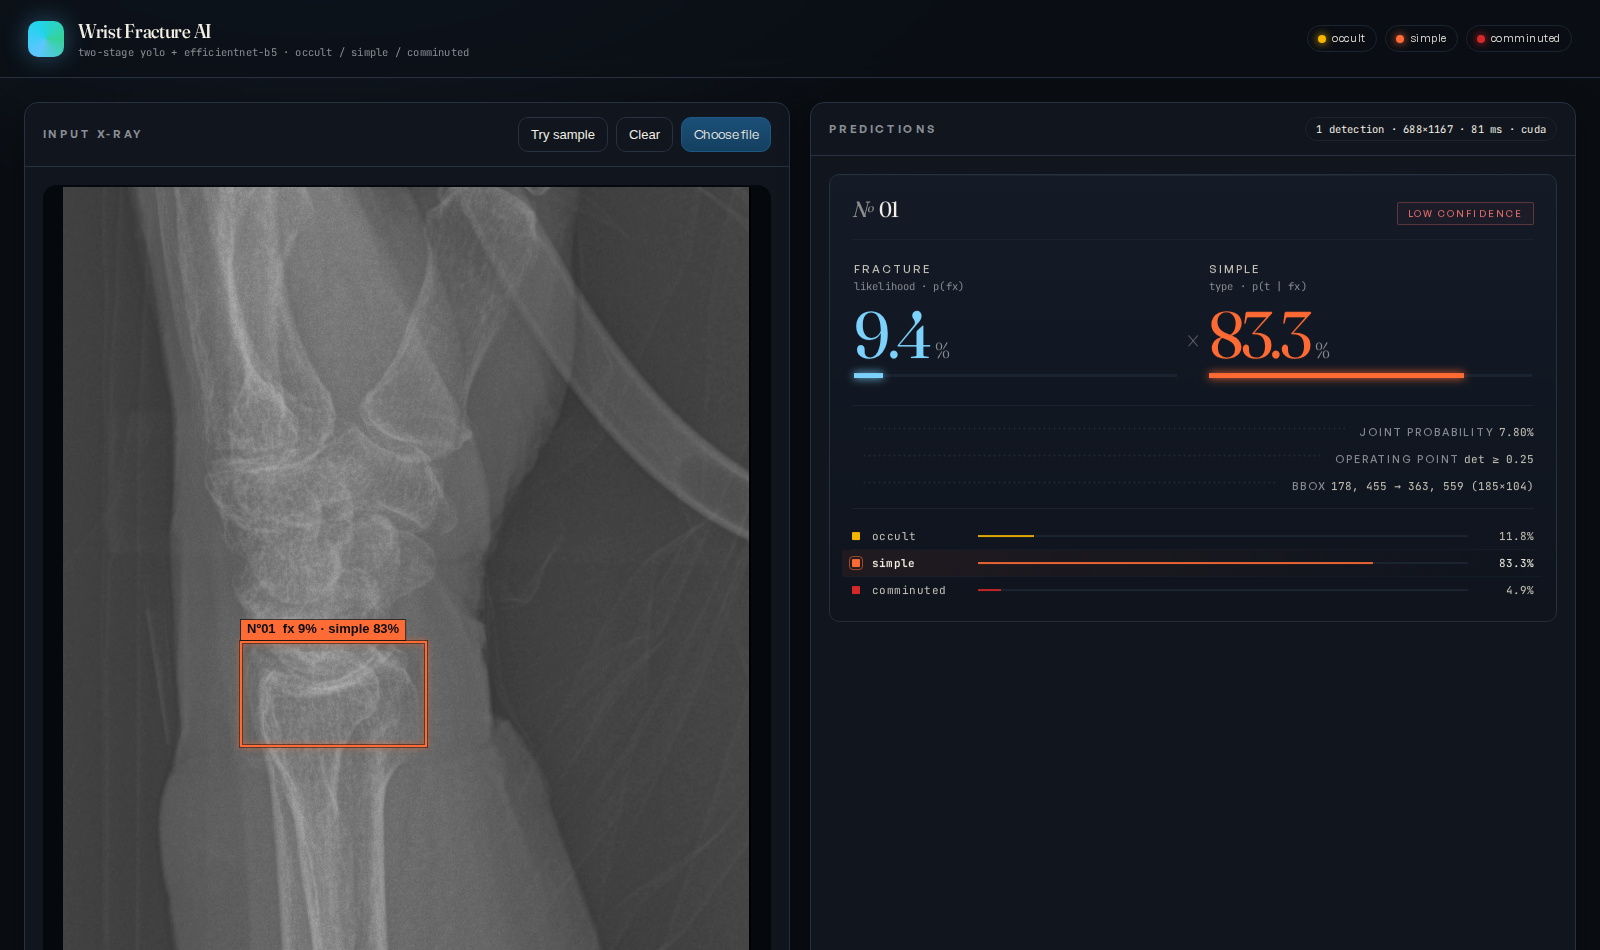
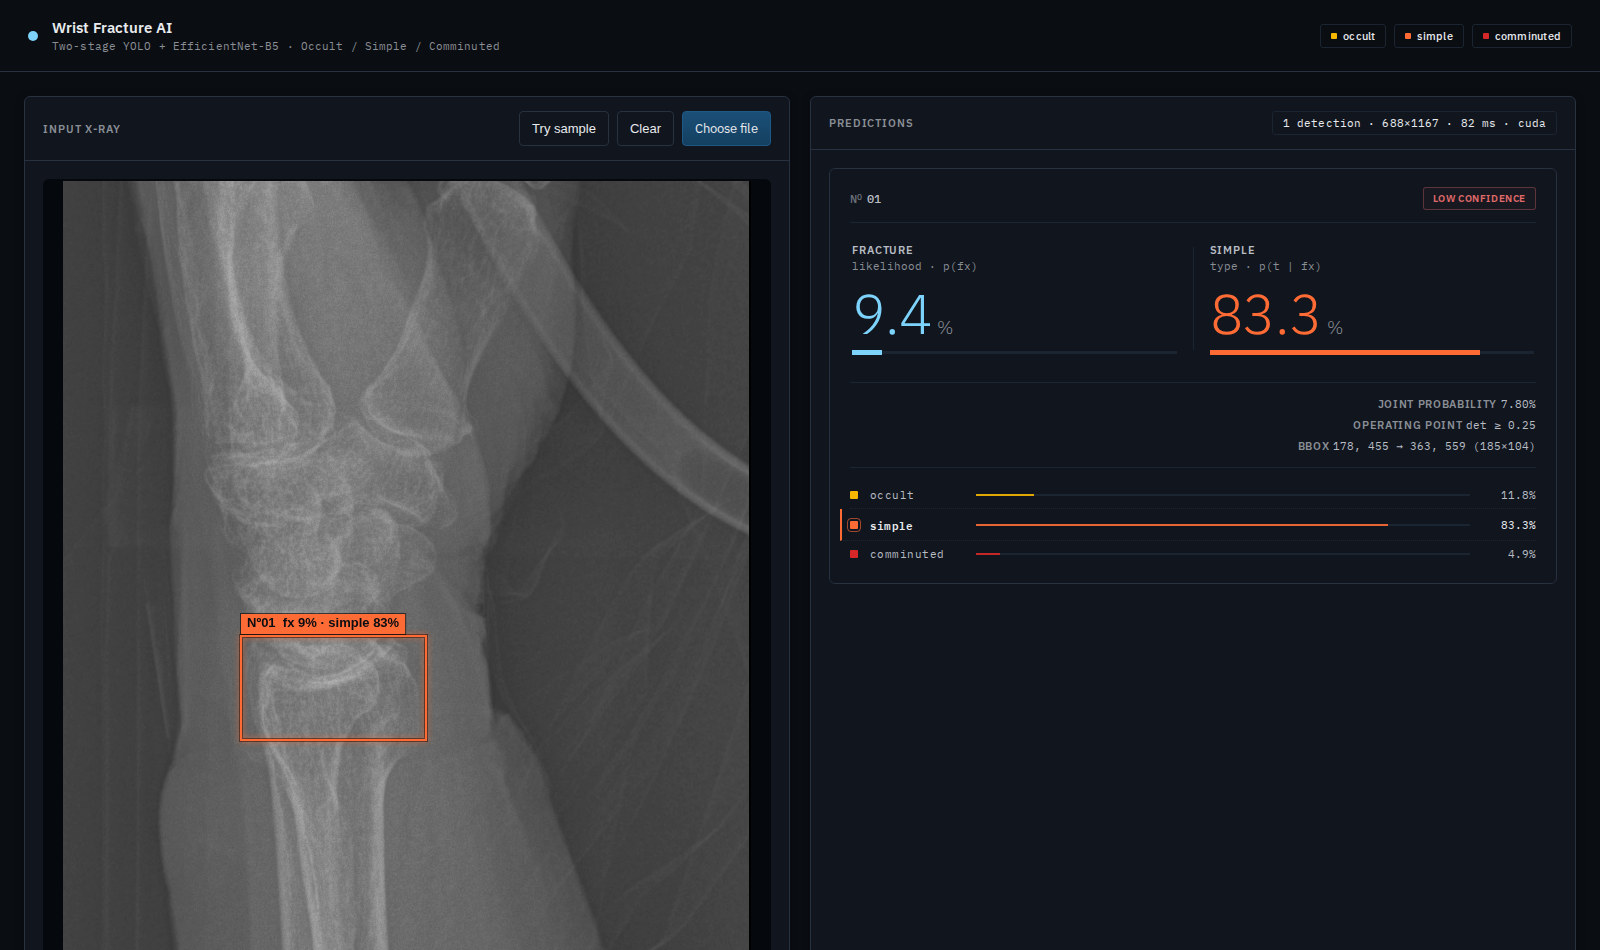
UI v4: apply medical reviewer residuals
- Remove dot-leader pattern from meta rows (print-typography holdover)
- Remove .badge-dot glow (box-shadow 0)
- Unify border-radius: .card, .no-det, .btn, .chip all -> 4-6px
- Drop backdrop-filter blur on topbar (consumer OS pattern)
- .pct weight 300 matches .num (uniform instrument-grade numeric stroke)
- Reduce panel shadow to 0 2px 8px
- Increase gauge tick contrast (0.06 -> 0.09)

diff --git a/static/css/style.css b/static/css/style.css
@@ -14,7 +14,7 @@
   --warn: #f59e0b;
   --danger: #e06b6b;
   --radius: 6px;
-  --shadow: 0 10px 30px rgba(0,0,0,0.35);
+  --shadow: 0 2px 8px rgba(0,0,0,0.25);
 
   --font-display: "IBM Plex Sans", ui-sans-serif, system-ui, -apple-system, sans-serif;
   --font-body:    "IBM Plex Sans", ui-sans-serif, system-ui, -apple-system, sans-serif;
@@ -36,8 +36,7 @@ h1, h2, h3, p { margin: 0; }
   display: flex; align-items: center; justify-content: space-between;
   padding: 18px 28px;
   border-bottom: 1px solid var(--border);
-  background: rgba(10, 15, 22, 0.6);
-  backdrop-filter: blur(8px);
+  background: var(--bg);
   position: sticky; top: 0; z-index: 10;
 }
 .brand { display: flex; gap: 14px; align-items: center; }
@@ -95,7 +94,7 @@ h1, h2, h3, p { margin: 0; }
 .btn {
   display: inline-flex; align-items: center; gap: 6px;
   padding: 8px 12px;
-  border-radius: 10px;
+  border-radius: 4px;
   background: linear-gradient(180deg, #2a3649, #1d2637);
   border: 1px solid var(--border);
   color: var(--text);
@@ -245,7 +244,7 @@ kbd {
   background: var(--panel-2);
   border: 1px solid var(--border);
   border-left: 4px solid var(--border);
-  border-radius: 12px;
+  border-radius: 6px;
   padding: 12px 14px;
 }
 .card-head {
@@ -260,7 +259,6 @@ kbd {
 }
 .badge-dot {
   width: 10px; height: 10px; border-radius: 50%;
-  box-shadow: 0 0 10px currentColor;
 }
 .card-meta {
   font-size: 12px; color: var(--muted);
@@ -315,14 +313,14 @@ kbd {
 .no-det {
   background: var(--panel-2);
   border: 1px dashed var(--border);
-  border-radius: 12px;
+  border-radius: 6px;
   padding: 18px;
   text-align: center;
   color: var(--muted);
 }
 
 /* =============================================================
-   EDITORIAL PREDICTIONS CARD — twin-gauge layout
+   PREDICTIONS CARD — twin-gauge layout
    det_conf  ×  class_conf  surfaced as equal citizens
    ============================================================= */
 
@@ -479,7 +477,7 @@ kbd {
 }
 .pct {
   font-family: var(--font-display);
-  font-weight: 400;
+  font-weight: 300;
   font-size: 18px;
   color: var(--muted);
   margin-left: 3px;
@@ -498,8 +496,8 @@ kbd {
       to right,
       transparent 0,
       transparent calc(10% - 1px),
-      rgba(255,255,255,0.06) calc(10% - 1px),
-      rgba(255,255,255,0.06) 10%
+      rgba(255,255,255,0.09) calc(10% - 1px),
+      rgba(255,255,255,0.09) 10%
     );
 }
 .gauge-fill {
@@ -535,13 +533,6 @@ kbd {
 .meta-row::before {
   content: "";
   flex: 1;
-  height: 1em;
-  margin: 0 10px;
-  background-image: radial-gradient(circle, var(--border) 0.8px, transparent 1.2px);
-  background-size: 5px 5px;
-  background-repeat: repeat-x;
-  background-position: 0 center;
-  opacity: 0.7;
 }
 .meta-row dd {
   margin: 0;

diff --git a/eval_medical_v2.md b/eval_medical_v2.md
@@ -1,0 +1,120 @@
+# Medical UI/UX Re-evaluation — Wrist Fracture AI Demo (v3)
+**Evaluator role:** Radiologist / clinical peer reviewer perspective
+**Date:** 2026-04-21
+**Prior report:** eval_medical.md
+**Screenshots reviewed:** 01_empty, 02_pred_14846298 (5.5%/99.8%), 03_pred_16254840 (9.4%/83.3%), 04_pred_14846298 (25.3%/99.4%)
+
+---
+
+## 1. Verdict
+
+The v3 revision is a substantial improvement. IBM Plex Sans at weight 300 for the large numerals is the right call — the figures now read as instrument output rather than editorial art. The removal of the film-grain overlay and conic glow cleans up the background considerably. The vertical rule separator between gauges is unambiguously better than the typographic multiplication operator. The border-radius reduction to 6px makes the panels feel structured rather than bubbly. At a first glance from a radiologist or journal reviewer, this now passes the basic credibility bar — it no longer reads as a consumer web app or a startup landing page.
+
+That said, there are four residual problems that still undermine clinical readability before submission:
+
+1. The dot-leader pattern in the meta-rows is still present (style.css lines 535-545) and still reads as print typography, not clinical software.
+2. The `.badge-dot` glow was not removed — style.css line 263 still carries `box-shadow: 0 0 10px currentColor`. This affects the old `.card` component, which may still be rendered in some states.
+3. The `.card` border-radius at line 248 is still `12px` — the only element in the UI with a large radius after the global change to 6px, making it visually inconsistent.
+4. The comment on line 325 still reads "EDITORIAL PREDICTIONS CARD" — a cosmetic issue, but if the CSS is ever inspected during code review for a journal submission, this is an embarrassing artifact.
+
+None of these are blockers, but items 1 and 3 are visible in the screenshots.
+
+---
+
+## 2. Residual Fixes (priority order)
+
+### FIX 1 — Remove dot-leader from meta-rows (still present, lines 535-545)
+
+The `background-image: radial-gradient(circle, ...)` dot-repeat pattern on `.meta-row::before` is the last remaining print-editorial element. It is visible in all three prediction screenshots between the "JOINT PROBABILITY" label and its value, and between "OPERATING POINT" and its coordinates. It signals "book design" to any clinical reader.
+
+Replace the entire `::before` pseudo-element with a plain flex spacer:
+
+```css
+/* style.css lines 535-545 — replace entirely */
+.meta-row::before {
+  content: "";
+  flex: 1;
+  /* no background-image — plain gap between label and value */
+}
+```
+
+That removes all dot leaders. Label left, value right, clean space between.
+
+### FIX 2 — Remove `.badge-dot` glow (line 263)
+
+```css
+/* style.css line 263 — current */
+box-shadow: 0 0 10px currentColor;
+
+/* replace with */
+box-shadow: none;
+```
+
+The `.badge-dot` is used in the older `.card` component. Even if this component is not currently rendered in the prediction flow, it will appear if a "no detection" or error state is triggered. The glow is inconsistent with the rest of the now-clean UI.
+
+### FIX 3 — Fix `.card` border-radius (line 248, still 12px)
+
+```css
+/* style.css line 248 — current */
+border-radius: 12px;
+
+/* replace with */
+border-radius: 6px;
+```
+
+This is the only remaining large-radius element. On the `.no-det` block (line 318) the radius is also still `12px` — fix that to `6px` as well.
+
+### FIX 4 — Fix the comment on line 325
+
+```css
+/* current (line 325) */
+/* EDITORIAL PREDICTIONS CARD — twin-gauge layout */
+
+/* replace with */
+/* PREDICTIONS CARD — twin-gauge layout */
+```
+
+Minor, but worth doing before any code is shown to reviewers.
+
+---
+
+## 3. What Is Working Well (do not change)
+
+- **IBM Plex Sans weight 300 at 56px for numerals:** Correct. Reads as precise and instrument-grade. The `font-feature-settings: "tnum", "lnum"` on line 476-477 is the right call for clinical numeric alignment.
+- **Vertical rule separator (1px, `var(--border-soft)`):** Better than any operator glyph. Clean, neutral, unambiguous column division.
+- **Tier pills (LOW CONFIDENCE in danger red):** Now readable at `font-size: 10px` with `letter-spacing: 0.06em`. The `border-radius: 3px` is appropriately tight. Color coding (red/amber/green) matches standard clinical alert conventions.
+- **`--text: #e8eaed` cool near-white:** Correct. No longer feels like printed paper.
+- **`--radius: 6px` global:** Makes panels look like structured data containers, not UI cards.
+- **`.bd-row.is-predicted` left border accent:** The 2px colored left border at line 577 is the right way to call out the predicted class — visible and unambiguous without a distracting background wash.
+- **Animation duration reduction (.35s):** The entry animation on `.fxcard` is now subtle enough to not read as "product demo."
+- **Legend chips at top-right:** Square markers (1px radius, no glow) are now properly clinical. The chip shape itself (999px border-radius pill) is slightly consumer-ish but acceptable — this is a navigation legend, not a clinical data element, so the softness is tolerable.
+
+---
+
+## 4. Nice-to-Have Polish (5 items)
+
+1. **`.gauge-track` tick marks (lines 495-503):** The `repeating-linear-gradient` 10%-interval tick pattern is a nice scientific instrument detail that actually reads well in context. Keep it. If anything, increase tick opacity from `0.06` to `0.09` for slightly better readability on high-DPI displays.
+
+2. **`--shadow: 0 10px 30px rgba(0,0,0,0.35)` (line 17):** Panel drop shadows at this scale are a consumer UI convention. Clinical tools typically use panel borders alone. Consider reducing to `--shadow: 0 2px 8px rgba(0,0,0,0.25)` or removing entirely — the `1px solid var(--border)` borders already delineate panels cleanly.
+
+3. **`.btn` border-radius (line 98, still `10px`):** Buttons are the last place where the old consumer-SaaS rounding survives. Change to `border-radius: 4px` to match the 6px panel convention (buttons should be slightly tighter than panels).
+
+4. **`backdrop-filter: blur(8px)` on `.topbar` (line 40):** Frosted-glass blur on the topbar is a consumer OS design pattern (macOS, iOS). Remove it — `background: rgba(10,15,22,0.95)` or just `background: var(--bg)` gives a cleaner, more professional header that matches PACS conventions.
+
+5. **The `%` symbol on `.pct` (lines 480-486):** At 18px weight 400, the percent sign after the 56px weight-300 numeral is proportionally correct but slightly heavy relative to the numeral. Consider `font-weight: 300` to match the numeral weight, preventing the `%` from reading as bolder than the number it qualifies.
+
+---
+
+## Summary: Remaining CSS Lines to Change
+
+| Issue | Line(s) | Current | Replace with |
+|---|---|---|---|
+| Dot-leader in meta-rows | 535-545 | `background-image: radial-gradient(...)` | remove background-image entirely |
+| badge-dot glow | 263 | `box-shadow: 0 0 10px currentColor` | `box-shadow: none` |
+| .card border-radius | 248 | `border-radius: 12px` | `border-radius: 6px` |
+| .no-det border-radius | 318 | `border-radius: 12px` | `border-radius: 6px` |
+| Comment text | 325 | "EDITORIAL PREDICTIONS CARD" | "PREDICTIONS CARD" |
+| .btn border-radius (polish) | 98 | `border-radius: 10px` | `border-radius: 4px` |
+| topbar backdrop-filter (polish) | 40 | `backdrop-filter: blur(8px)` | remove |
+| .pct font-weight (polish) | 483 | `font-weight: 400` | `font-weight: 300` |
+| panel shadow (polish) | 17 | `0 10px 30px rgba(0,0,0,0.35)` | `0 2px 8px rgba(0,0,0,0.25)` |
